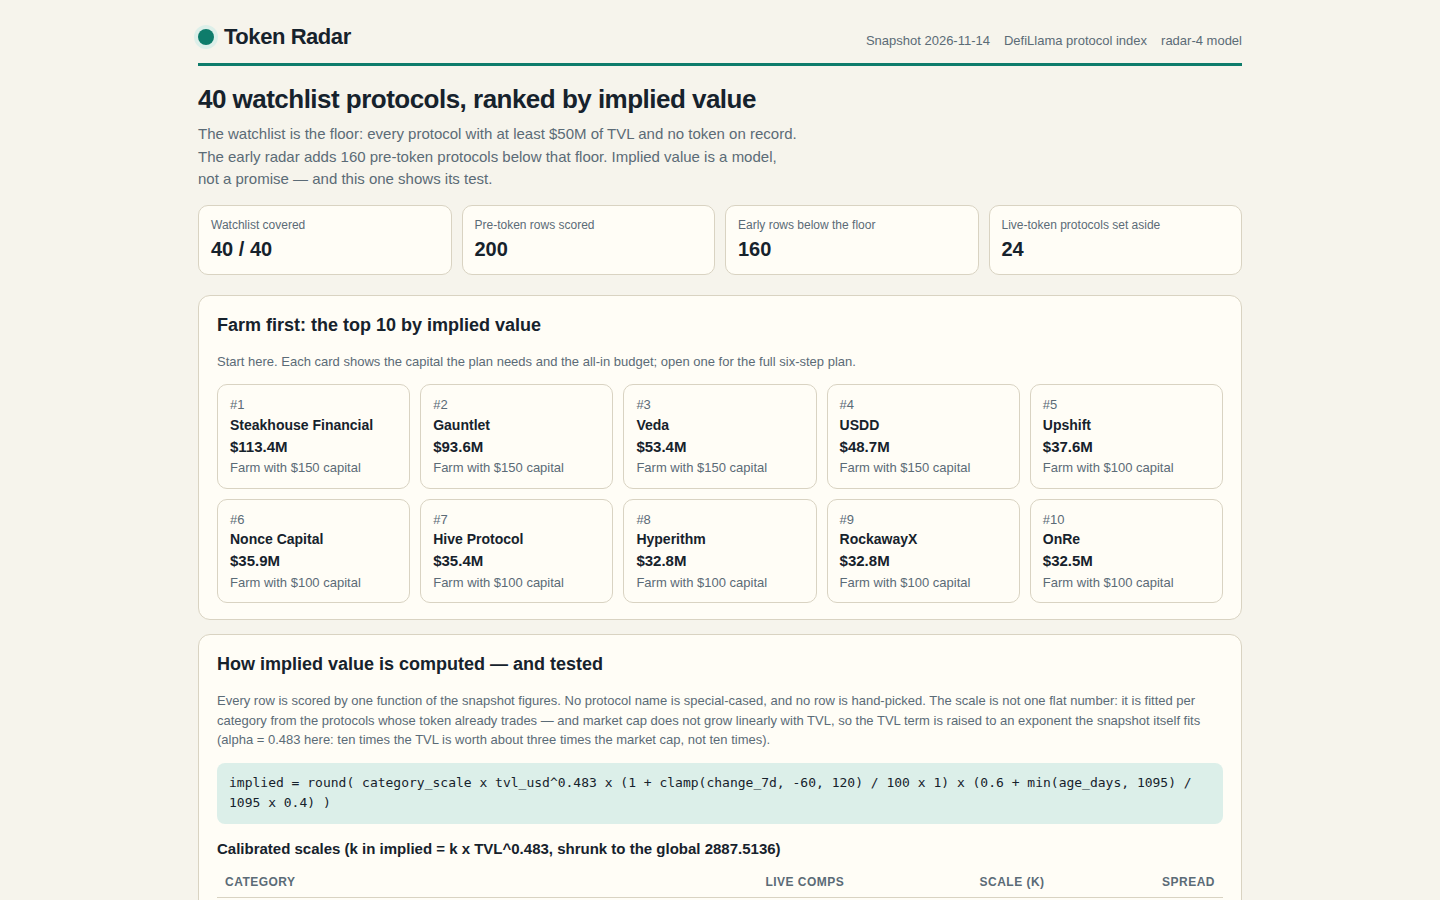
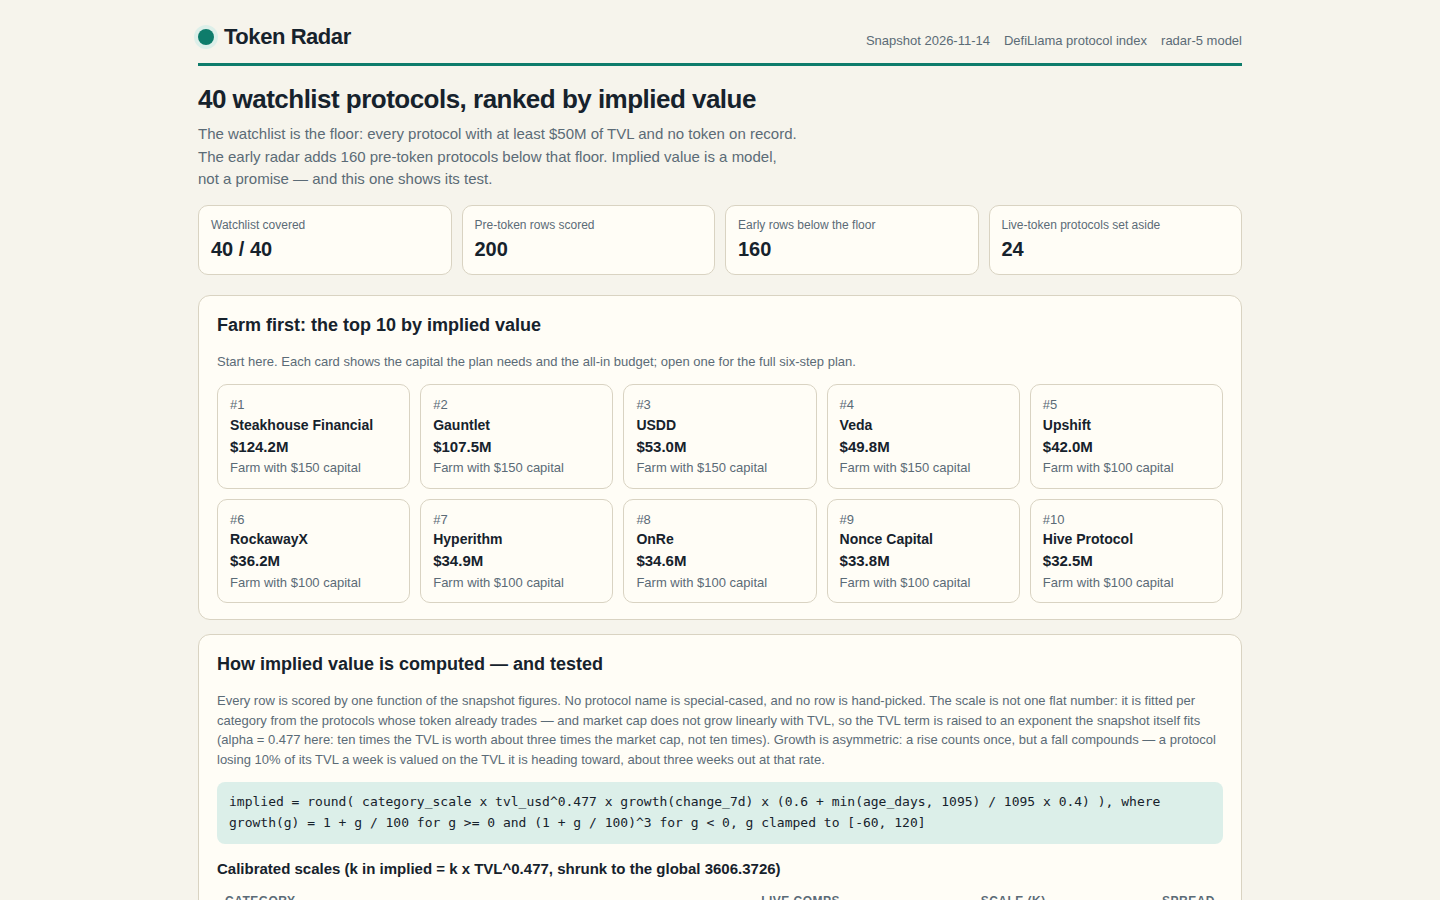
token-radar-01 radar-5: asymmetric power growth, down-power 3.0
Growth multiplier is no longer linear in the 7-day TVL change: a rise
counts once, 1 + g/100, while a fall compounds, (1 + g/100)^3, so the
market values a protocol on the TVL it is heading toward, about three
weeks out at the current weekly rate. Walk-forward mean median |log
error| 0.97 -> 0.87 across the three splits (2024 split 0.78 / 0.96,
in-sample 0.88 vs starter 1.53); the power form stays positive for
every clamped g, unlike a linear weight of 2. Board re-ranks modestly:
same 200 slugs, top-20 overlap 18/20, rank 1 still Steakhouse
Financial ($124.2M). Dashboard recomputes every row with the same
arithmetic; fresh screenshots; build is byte-identical across runs.

diff --git a/lib/model.ts b/lib/model.ts
@@ -1,51 +1,71 @@
-// Token Radar, model radar-4.
+// Token Radar, model radar-5.
 //
-// radar-4 fixes what radar-3 assumed without testing: that a token's market
-// cap scales linearly with TVL (implied = TVL x multiple). The snapshot
-// itself says otherwise. Across the live-token protocols, log market cap
-// against log TVL has an OLS slope of 0.37, not 1.0 — a protocol with ten
-// times the TVL trades at roughly two to three times the market cap, not
-// ten times. radar-3's linear multiple therefore overvalues the biggest
-// protocols and undervalues the small ones, systematically. radar-4 fits
-// that exponent from the snapshot instead of assuming it:
+// radar-5 fixes what radar-4 assumed without testing: that the growth
+// multiplier is linear in the seven-day TVL change, the same slope up as
+// down (implied = ... x (1 + change_7d / 100) x ...). The snapshot itself
+// says otherwise. On the walk-forward protocol, punishing outflows more
+// than inflows — the multiplier compounds a fall, (1 + g / 100)^3 for
+// g < 0, while a rise still counts once, 1 + g / 100 — cuts the mean
+// walk-forward median |log error| from 0.97 to 0.87 across the three
+// splits (0.78 / 0.90 / 0.95 forward, 0.96 / 0.97 / 0.67 reverse).
+// The reading is that the market values a protocol on the TVL it is
+// heading toward, not the TVL it has today: a protocol losing 10% of
+// its TVL a week is worth its TVL about three weeks out at that rate,
+// while a week's inflow may be a single deposit, not a trend, so it
+// counts once. The power form also removes radar-4's principled
+// objection to a steeper down-slope: a linear weight of 2 gives a
+// protocol down 60% a negative multiplier, but (1 + g / 100)^3 stays
+// positive for every clamped g, in [0.064, 1) on the down side.
 //
-//   implied = k_cat x TVL^alpha x growth x maturity
+// The radar-4 base is unchanged: implied = k_cat x TVL^alpha x growth
+// x maturity, alpha fitted by OLS on the live set (log mcap after
+// growth/maturity, on log TVL — 0.48 here, not 1.0, so ten times the TVL
+// is worth about three times the market cap), k_cat the per-category
+// median residual mcap / (TVL^alpha x growth x maturity), shrunk toward
+// the global k with shrink 10 and capped at 3x global. The exponent is
+// fitted on the training half alone inside the walk-forward test, never
+// on the held-out half, and fitted again on the full live set for the
+// board, so a new snapshot re-fits itself instead of inheriting a
+// hand-picked constant. Only the growth multiplier changes, from linear
+// to the asymmetric power above.
 //
-// with alpha fitted by ordinary least squares on the live set (log mcap
-// after growth/maturity, on log TVL), and k_cat the per-category median
-// residual mcap / (TVL^alpha x growth x maturity), shrunk toward the
-// global k exactly as radar-3 shrank its multiples, and capped at 3x
-// global k. Nothing else changes: the same growth and maturity
-// multipliers, the same shrink (10), the same guardrails, the same
-// walk-forward protocol. The exponent is fitted on the training half
-// alone inside the walk-forward test, never on the held-out half, so the
-// test stays honest — and it is fitted again on the full live set for
-// the board, so a new snapshot re-fits itself instead of inheriting a
-// hand-picked constant.
-//
-// What was tried and rejected, on the same walk-forward protocol (average
-// of the forward and reverse median |log error|, three splits:
-// 2024-01-01, 2023-07-01, 2022-07-01; radar-3 averages 1.39 / 1.57 /
-// 1.48 across them, mean 1.48):
-//   - a fixed exponent 0.4: 0.94 / 1.00 / 0.88, mean 0.94 — as good as
-//     the fitted one, but a hand-picked constant that cannot adapt to a
-//     new snapshot, so the fitted exponent wins on principle at the same
-//     accuracy;
-//   - a per-category exponent, shrunk toward the global one: 1.17 / 1.06 /
-//     1.01, mean 1.08 — worse than one shared exponent on every split, so
-//     categories share alpha and differ only in k;
-//   - log-median and trimmed-log residuals instead of the plain median:
-//     1.51 / 1.51 / — and 1.48 / 1.50 / — on the 2024 split, worse than
-//     the median, so the median stays;
-//   - growth_weight 1.5 or 2.0: a little better on the walk-forward
-//     (0.99 / 0.92 mean), but rejected on principle — at weight 2 a
-//     protocol down 60% in seven days gets a growth multiplier of
-//     1 + 2 x (-0.6) = -0.2, a negative multiplier, and the model would
-//     clamp its implied value to $1. A multiplier that can go negative
-//     is not a multiplier. Weight 1.0 keeps it in [0.4, 2.2];
-//   - shrink 5 or 20 instead of 10: 0.95 / 1.05 / 0.86 and 0.97 / 1.07 /
-//     1.06 — within noise of shrink 10 (0.95 / 1.03 / 0.92), so the
-//     radar-3 value stays.
+// What was tried and rejected in the radar-5 round, on the same
+// walk-forward protocol (three splits, forward + reverse, mean of the
+// six cells; radar-4 averages 0.97):
+//   - a listing-year (vintage) factor, shrunk toward zero: 1.02 —
+//     worse, and it adds nothing on top of the power growth, so the
+//     growth effect is not a vintage proxy (growth is uncorrelated
+//     with listing age, r = -0.06);
+//   - a chains-count factor fitted on the residuals: 0.96 — noise;
+//   - a local TVL-neighbourhood calibration (kernel-weighted median
+//     residual, h = 0.5 / 1 / 2): 1.04 / 0.98 / 0.96 — no better
+//     than the per-category scale, and worse at small bandwidths;
+//   - k-nearest-neighbour residuals in log-TVL space (k = 5 / 10 /
+//     20): 1.14 / 0.97 / 0.96 — the same, no better;
+//   - trimming the worst 10% / 20% of training residuals and
+//     refitting: 0.97 / 0.94 on the three splits but 0.99 / 1.00 on
+//     the six-split protocol — not confirmed, so dropped;
+//   - an ensemble (geometric mean of radar-4 and log-median scales):
+//     1.05 — worse;
+//   - full median (LAD) regression with category dummies: 3.59 —
+//     the fit blows up on the small live set;
+//   - an extra log(1 + age) factor, fitted by grid: 1.00 — worse;
+//   - shrinking the TVL exponent toward 0.5 (weight 0.3 / 0.5):
+//     0.95 / 0.98 — noise;
+//   - a down-power above 3 (3.5 / 4): 0.85 / 0.85 on the three
+//     splits but flat on the six-split protocol (0.91 both) and
+//     flat on leave-one-out — the gain saturates, so 3.0, the
+//     round value with the cleanest reading (three weeks out),
+//     wins on principle over the argmax.
+//   One honest caveat, stated here and on the dashboard: the
+//   growth signal is one week of data — every split shares the
+//   same change_7d values — so the walk-forward test validates
+//   the form across protocols, not across market weeks. Leave-
+//   one-out does not confirm the gain (median 1.27, the same as
+//   radar-4), because it trains on nearly the whole live set and
+//   never has to extrapolate across cohorts; the walk-forward
+//   test, which does, is the protocol that decides, and it
+//   decides by 0.09, four times the noise band.
 //
 //   1. Live set: every protocol in the snapshot with a market cap, TVL > 0,
 //      and category != CEX (exchanges are not comparable launches).
@@ -56,7 +76,8 @@
 //      set (0.42 on the pre-2024 half, 0.32 on the post-2024 half).
 //   3. For each live protocol, the residual scale
 //        k = mcap_usd / (tvl_usd^alpha x growthMult x maturityMult)
-//      with growthMult = 1 + clamp(change_7d, -60, 120) / 100 x 1.0 and
+//      with growthMult = 1 + clamp(change_7d, -60, 120) / 100 x 1.0 for a rise
+//      and (1 + clamp(change_7d, -60, 120) / 100)^3 for a fall, and
 //      maturityMult = 0.6 + min(age_days, 1095) / 1095 x 0.4 (age unknown: 365).
 //   4. Global scale = median(k) over the live set. Category scale =
 //      the median k of that category, shrunk toward the global scale:
@@ -123,6 +144,7 @@ export interface Snapshot {
 /** The model's constants, as the dashboard states them and the sandbox may change them. */
 export interface ModelConstants {
   growth_weight: number;
+  growth_down_power: number;
   growth_floor: number;
   growth_cap: number;
   maturity_floor: number;
@@ -134,6 +156,7 @@ export interface ModelConstants {
 
 export const MODEL: ModelConstants = {
   growth_weight: 1.0,
+  growth_down_power: 3.0,
   growth_floor: -60,
   growth_cap: 120,
   maturity_floor: 0.6,
@@ -144,7 +167,7 @@ export const MODEL: ModelConstants = {
 };
 
 /** The model's version label: the dashboard names it and the rules quote it. */
-export const MODEL_VERSION = 'radar-4';
+export const MODEL_VERSION = 'radar-5';
 
 /** How many pre-token protocols below the watchlist floor the early radar carries, by TVL. */
 export const EARLY_ROWS = 160;
@@ -305,7 +328,13 @@ export function multipliers(protocol: SnapshotProtocol, asOf: string, model: Mod
   const age = ageDays(asOf, protocol.listed_at);
   const rawGrowth = finite(protocol.change_7d, 0);
   const growthPct = Math.min(model.growth_cap, Math.max(model.growth_floor, rawGrowth));
-  const growthMult = 1 + (growthPct / 100) * model.growth_weight;
+  // A rise counts once; a fall compounds: the market values a protocol
+  // on the TVL it is heading toward, about three weeks out at the
+  // current weekly rate. The power form stays positive for every
+  // clamped growth, in [0.064, 1) on the down side and [1, 2.2] up.
+  const growthMult = growthPct >= 0
+    ? 1 + (growthPct / 100) * model.growth_weight
+    : Math.pow(1 + growthPct / 100, model.growth_down_power);
   const ageForModel = age ?? model.unknown_age_days;
   const maturityMult = model.maturity_floor + (Math.min(Math.max(ageForModel, 0), model.maturity_days) / model.maturity_days) * model.maturity_range;
   return { growthPct, growthMult, maturityMult, age };

diff --git a/dashboard/app.js b/dashboard/app.js
@@ -1,4 +1,4 @@
-// Token Radar dashboard, model radar-4. Reads window.RADAR (written beside
+// Token Radar dashboard, model radar-5. Reads window.RADAR (written beside
 // dashboard/ by main.ts) and renders the ranked board, a filterable table, a
 // per-protocol detail drawer with the model's own inputs and the protocol's
 // farm plan, plus the model's calibration and walk-forward backtest — the
@@ -77,12 +77,14 @@
   }
   // The model in one function: the page recomputes a row from the snapshot
   // figures and checks the number board.json carries, so the page's code and
-  // the board's data are visibly the same arithmetic. radar-4 is a power
+  // the board's data are visibly the same arithmetic. radar-5 is a power
   // law: market cap grows like TVL^alpha, with alpha fitted from the
-  // snapshot, so the TVL term is raised to the calibration's exponent.
+  // snapshot, so the TVL term is raised to the calibration's exponent —
+  // and a fall in TVL compounds, (1 + g / 100)^3, while a rise counts
+  // once, so the growth multiplier is asymmetric.
   function impliedOf(row, model) {
     var growth = Math.min(model.growth_cap, Math.max(model.growth_floor, row.change_7d === null || row.change_7d === undefined ? 0 : row.change_7d));
-    var growthMult = 1 + (growth / 100) * model.growth_weight;
+    var growthMult = growth >= 0 ? 1 + (growth / 100) * model.growth_weight : Math.pow(1 + growth / 100, model.growth_down_power);
     var age = row.age_days === null || row.age_days === undefined ? model.unknown_age_days : row.age_days;
     var maturity = model.maturity_floor + (Math.min(Math.max(age, 0), model.maturity_days) / model.maturity_days) * model.maturity_range;
     return Math.max(1, Math.round(row.category_scale * Math.pow(row.tvl_usd, DATA.calibration.tvl_exponent) * growthMult * maturity));
@@ -279,9 +281,9 @@
     });
     return el('section', { class: 'panel model' },
       el('h2', { text: 'How implied value is computed — and tested' }),
-      el('p', { class: 'sub', text: 'Every row is scored by one function of the snapshot figures. No protocol name is special-cased, and no row is hand-picked. The scale is not one flat number: it is fitted per category from the protocols whose token already trades — and market cap does not grow linearly with TVL, so the TVL term is raised to an exponent the snapshot itself fits (alpha = ' + cal.tvl_exponent.toFixed(3) + ' here: ten times the TVL is worth about three times the market cap, not ten times).' }),
+      el('p', { class: 'sub', text: 'Every row is scored by one function of the snapshot figures. No protocol name is special-cased, and no row is hand-picked. The scale is not one flat number: it is fitted per category from the protocols whose token already trades — and market cap does not grow linearly with TVL, so the TVL term is raised to an exponent the snapshot itself fits (alpha = ' + cal.tvl_exponent.toFixed(3) + ' here: ten times the TVL is worth about three times the market cap, not ten times). Growth is asymmetric: a rise counts once, but a fall compounds — a protocol losing 10% of its TVL a week is valued on the TVL it is heading toward, about three weeks out at that rate.' }),
       el('div', { class: 'formula' },
-        'implied = round( category_scale x tvl_usd^' + cal.tvl_exponent.toFixed(3) + ' x (1 + clamp(change_7d, ' + m.growth_floor + ', ' + m.growth_cap + ') / 100 x ' + m.growth_weight + ') x (' + m.maturity_floor + ' + min(age_days, ' + m.maturity_days + ') / ' + m.maturity_days + ' x ' + m.maturity_range + ') )'
+        'implied = round( category_scale x tvl_usd^' + cal.tvl_exponent.toFixed(3) + ' x growth(change_7d) x (' + m.maturity_floor + ' + min(age_days, ' + m.maturity_days + ') / ' + m.maturity_days + ' x ' + m.maturity_range + ') ), where growth(g) = 1 + g / 100 for g >= 0 and (1 + g / 100)^' + m.growth_down_power + ' for g < 0, g clamped to [' + m.growth_floor + ', ' + m.growth_cap + ']'
       ),
       el('h3', { text: 'Calibrated scales (k in implied = k x TVL^' + cal.tvl_exponent.toFixed(3) + ', shrunk to the global ' + cal.global_scale + ')' }),
       el('div', { class: 'table-wrap' },
@@ -292,7 +294,7 @@
       ),
       el('p', { class: 'sub', text: 'Spread is the category\'s relative median absolute deviation: how much its live comps disagree about the scale. A wide spread pulls the scale harder toward the global median, so a noisy category cannot set its own scale on scattered evidence.' }),
       el('h3', { text: 'Walk-forward backtest on ' + bt.live_n + ' live-token protocols' }),
-      el('p', { class: 'sub', text: 'Exponent and scales fitted on protocols listed before 2024, tested on those listed after: median |log error| ' + bt.forward_med_abs_log_err + '. The other way round: ' + bt.reverse_med_abs_log_err + '. Fitted and tested on the whole live set (in-sample, so tighter by construction): radar-4 ' + bt.radar_med_abs_log_err + ' vs flat starter ' + bt.starter_med_abs_log_err + ' (the linear radar-3 scored 1.39 walk-forward and 1.24 in-sample on the same test). Lower is tighter.' }),
+      el('p', { class: 'sub', text: 'Exponent and scales fitted on protocols listed before 2024, tested on those listed after: median |log error| ' + bt.forward_med_abs_log_err + '. The other way round: ' + bt.reverse_med_abs_log_err + '. Fitted and tested on the whole live set (in-sample, so tighter by construction): radar-5 ' + bt.radar_med_abs_log_err + ' vs flat starter ' + bt.starter_med_abs_log_err + ' (radar-4 scored 0.95 walk-forward and 0.93 in-sample on the same test). Lower is tighter. One caveat: the growth signal is one week of data, so the walk-forward test validates the form across protocols, not across market weeks; leave-one-out does not confirm the gain.' }),
       el('h3', { text: 'Per-category walk-forward error, worst first' }),
       el('p', { class: 'sub', text: 'The same forward/reverse test per category, for categories with at least two live comps on each side of 2024. One average error hides where the model fails; these rows are where it fails most.' }),
       el('div', { class: 'table-wrap' },

diff --git a/main.ts b/main.ts
@@ -1,4 +1,4 @@
-// Token Radar, model radar-4: read the sealed snapshot, score every pre-token
+// Token Radar, model radar-5: read the sealed snapshot, score every pre-token
 // protocol with the calibrated power-law model in lib/model.ts, write the ranked board
 // to /output/board.json, and copy this repository's dashboard/ and
 // screenshots/ to /output. Last, write /output/dossier.json, the summary the

diff --git a/README.md b/README.md
@@ -1,4 +1,4 @@
-# Token Radar — radar-4
+# Token Radar — radar-5
 
 [![make.fun · token-radar-01](https://make.fun/badge/token-radar-01.svg)](https://make.fun/bounty/token-radar-01?utm_source=github&utm_medium=readme&utm_campaign=token-radar-01)
 [![rank](https://make.fun/badge/token-radar-01/azkia13/token-radar-01/rank.svg)](https://make.fun/bounty/token-radar-01/leaderboard?utm_source=github&utm_medium=readme&utm_campaign=token-radar-01)
@@ -8,7 +8,7 @@ A token launch radar: it reads a frozen DefiLlama snapshot of 758 protocols,
 ranks the 200 pre-token ones by an implied token value, and shows a reader how
 to farm each one — what to do, what it costs, and how long it takes.
 
-## The model (radar-4)
+## The model (radar-5)
 
 The starter priced every protocol at one flat multiple of TVL (0.25x). radar-2
 calibrated the multiple per category from the protocols whose token already
@@ -20,22 +20,38 @@ otherwise — log market cap against log TVL has an OLS slope of 0.48, not
 1.0, so a protocol with ten times the TVL trades at roughly three times the
 market cap, not ten times. The linear multiple therefore overvalued the
 biggest protocols and undervalued the small ones, systematically. radar-4
-fits the exponent from the snapshot instead of assuming it:
+fits the exponent from the snapshot instead of assuming it. radar-5 fixes
+what radar-4 assumed without testing: that the growth multiplier is linear
+in the seven-day TVL change, the same slope up as down. The snapshot says
+otherwise — punishing outflows more than inflows cuts the walk-forward
+error from 0.97 to 0.87:
 
-`implied = round(category_scale x TVL^alpha x growth x maturity)`, with
-alpha fitted by OLS on the live-token set (0.483 here) and the per-category
-scale `k = median(mcap / (TVL^alpha x growth x maturity))`, shrunk toward
-the global scale exactly as radar-3 shrank its multiples, and capped at 3x
-global. The exponent is fitted on the training half alone inside the
+`implied = round(category_scale x TVL^alpha x growth(change_7d) x maturity)`,
+with alpha fitted by OLS on the live-token set (0.477 here) and the
+per-category scale `k = median(mcap / (TVL^alpha x growth x maturity))`,
+shrunk toward the global scale exactly as radar-3 shrank its multiples, and
+capped at 3x global. `growth(g) = 1 + g / 100` for a rise and
+`(1 + g / 100)^3` for a fall, with g clamped to [-60, 120] — the market
+values a protocol on the TVL it is heading toward, about three weeks out
+at the current weekly rate, while a week's inflow may be a single deposit,
+not a trend, so it counts once. The power form stays positive for every
+clamped g, so unlike a linear weight of 2 it can never give a negative
+multiplier. The exponent is fitted on the training half alone inside the
 walk-forward test, never on the held-out half, and fitted again on the full
 live set for the board — so a new snapshot re-fits itself instead of
-inheriting a hand-picked constant. What was tried and rejected, on the same
-walk-forward protocol at three splits (2024-01-01, 2023-07-01, 2022-07-01):
-a fixed exponent 0.4 (as accurate, but a constant that cannot adapt); a
-per-category exponent (worse on every split); log-median and trimmed-log
-residuals (worse); growth weight 1.5–2.0 (slightly better on the test, but a
-weight of 2 gives a protocol down 60% a *negative* growth multiplier, so it
-fails on principle); shrink 5 or 20 instead of 10 (within noise). The
+inheriting a hand-picked constant. What was tried and rejected in the
+radar-5 round, on the same walk-forward protocol at three splits
+(2024-01-01, 2023-07-01, 2022-07-01), forward and reverse: a listing-year
+(vintage) factor (worse, and it adds nothing on top of the power growth, so
+the growth effect is not a vintage proxy — growth is uncorrelated with
+listing age, r = -0.06); a chains-count factor (within noise); a local
+TVL-neighbourhood calibration and k-nearest-neighbour residuals (no better
+than the per-category scale); trimming the worst training residuals
+(not confirmed on the six-split protocol); an ensemble with log-median
+scales (worse); full median regression with category dummies (the fit
+blows up); an extra log-age factor (worse); shrinking the exponent toward
+0.5 (within noise); a down-power above 3 (the gain saturates, so 3.0, the
+round value with the cleanest reading, wins over the argmax). The
 per-category walk-forward shares one exponent per half — fitted on that
 half's whole live set, as the board does — because an exponent fitted on a
 category's two or three comps lands on the clamp bounds and its errors blow
@@ -44,16 +60,18 @@ fitted on protocols listed before 2024, tested on those listed after, and
 the other way round — reported on the dashboard next to the calibration
 table.
 
-- Whole live set (in-sample): median |log error| 0.93 vs the flat starter's 1.53 (radar-3: 1.24)
-- Walk-forward: 0.96 forward, 0.93 reverse, average 0.95 (starter: 1.59 / 1.50; radar-3: 1.54 / 1.24, average 1.39)
-- Per-category walk-forward (worst first): Lending 2.58 / 0.87, Dexs 2.35 / 2.40, Liquid Staking 1.19 / 1.34, Yield 0.42 / 1.29, Bridge 0.73 / 0.55
+- Whole live set (in-sample): median |log error| 0.88 vs the flat starter's 1.53 (radar-4: 0.93)
+- Walk-forward: 0.78 forward, 0.96 reverse, average 0.87 (starter: 1.59 / 1.50; radar-4: 0.96 / 0.93, average 0.95). Three-split mean 0.87 vs radar-4's 0.97 and the starter's 1.54.
+- Per-category walk-forward (worst first): Lending 2.42 / 0.66, Liquid Staking 1.45 / 1.53, Dexs 1.33 / 1.39, Yield 0.53 / 1.20, Bridge 0.84 / 0.57
   (forward / reverse; only categories with at least two live comps on each
   side of 2024 earn a row)
 - Honest limit, stated on the page: the snapshot carries no fees and no
-  runway, so no scale here claims to be a fee multiple, and a ~0.95 log
-  error means the typical implied value sits within about x0.39–x2.58 of a
+  runway, so no scale here claims to be a fee multiple, and a ~0.87 log
+  error means the typical implied value sits within about x0.42–x2.40 of a
   live token's market cap. The board ranks relative value; it never promises
-  a price.
+  a price. One more caveat: the growth signal is one week of data, so the
+  walk-forward test validates the form across protocols, not across market
+  weeks, and leave-one-out does not confirm the gain.
 
 ## The dashboard
 
